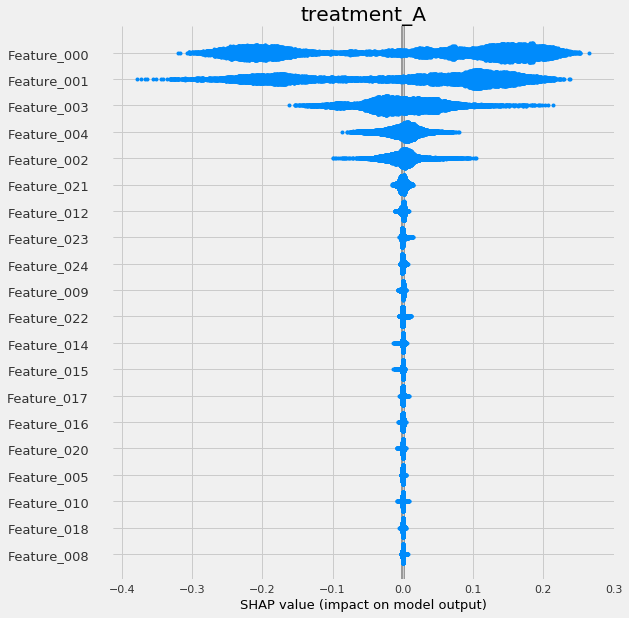
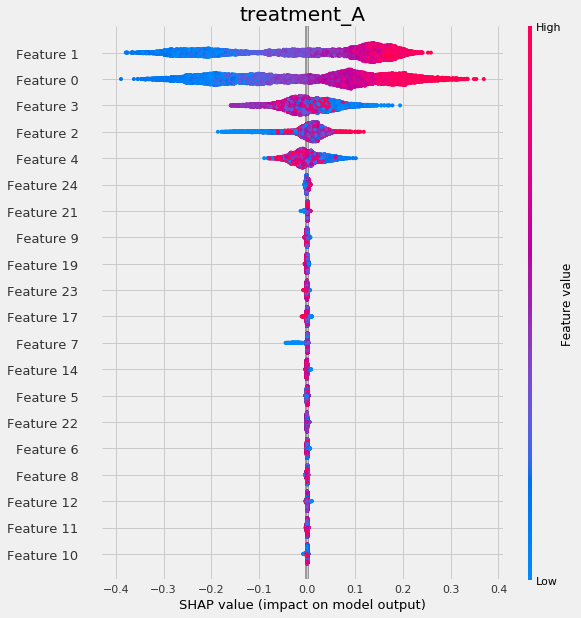
Pass in features parameter with numpy array in order to display SHAP summary plot with high to low color spectrum

diff --git a/causalml/inference/meta/explainer.py b/causalml/inference/meta/explainer.py
@@ -190,7 +190,7 @@ class Explainer(object):
 
         for group, values in shap_dict.items():
             plt.title(group)
-            shap.summary_plot(values, feature_names=self.features)
+            shap.summary_plot(values, features=self.X, feature_names=self.features)
 
     def plot_shap_dependence(self, treatment_group, feature_idx, shap_dict=None, interaction_idx='auto', **kwargs):
         """

diff --git a/README.md b/README.md
@@ -141,7 +141,7 @@ shap_slearner = slearner.get_shap_values(X=X, tau=slearner_tau)
 slearner.plot_shap_values(X=X, tau=slearner_tau)
 
 # Plot shap values WITH specifying shap_dict
-slearner.plot_shap_values(shap_dict=shap_slearner)
+slearner.plot_shap_values(X=X, shap_dict=shap_slearner)
 
 # interaction_idx set to 'auto' (searches for feature with greatest approximate interaction)
 slearner.plot_shap_dependence(treatment_group='treatment_A',

diff --git a/docs/interpretation.rst b/docs/interpretation.rst
@@ -33,7 +33,7 @@ Meta-Learner Feature Importances
     slearner.plot_shap_values(X=X, tau=slearner_tau)
 
     # Plot shap values WITH specifying shap_dict
-    slearner.plot_shap_values(shap_dict=shap_slearner)
+    slearner.plot_shap_values(X=X, shap_dict=shap_slearner)
 
     # interaction_idx set to 'auto' (searches for feature with greatest approximate interaction)
     slearner.plot_shap_dependence(treatment_group='treatment_A',
